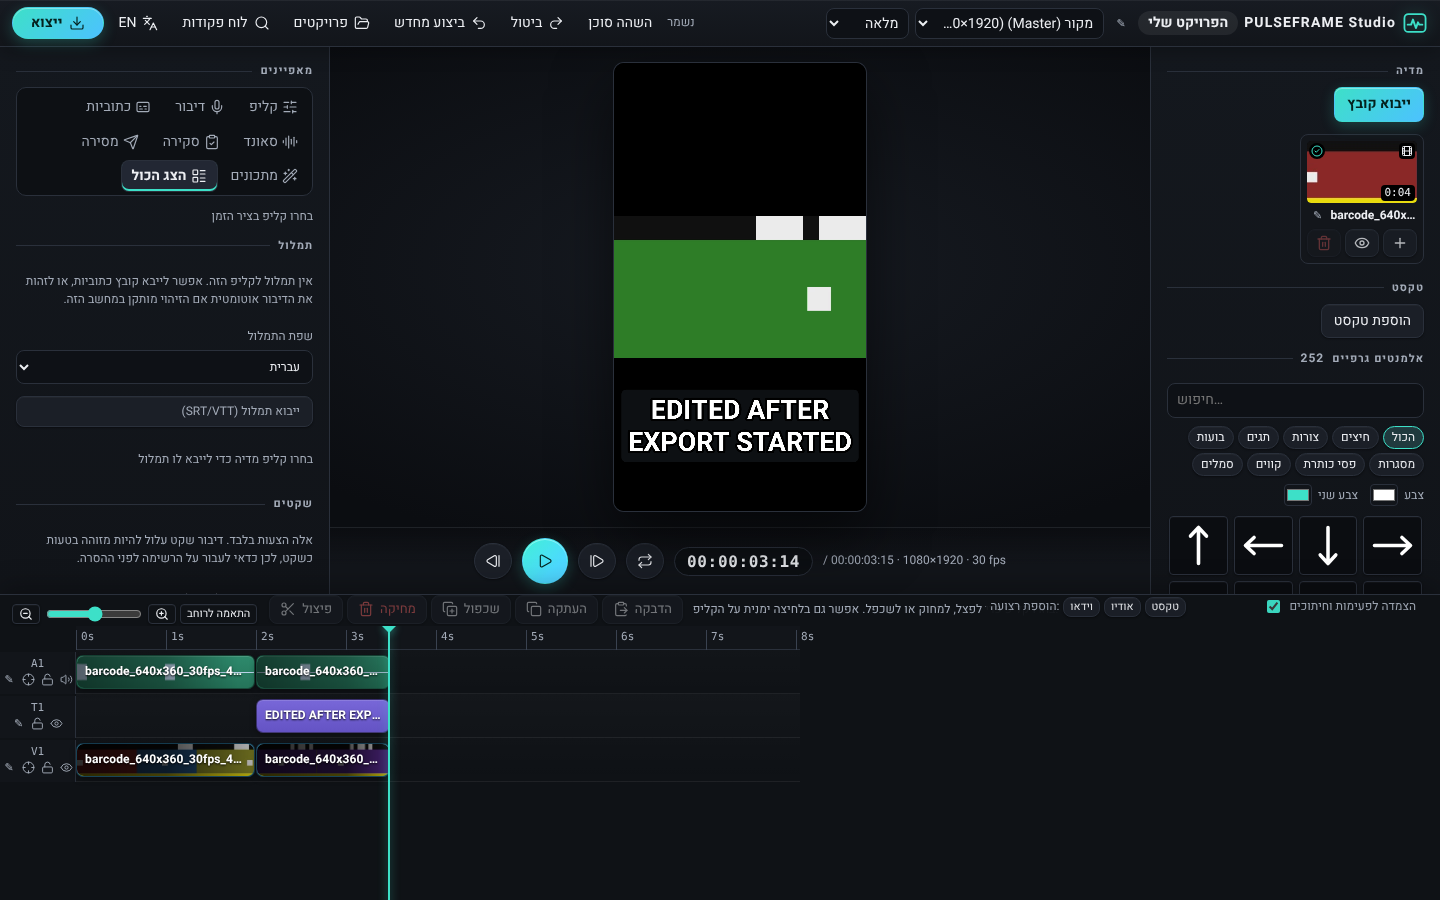
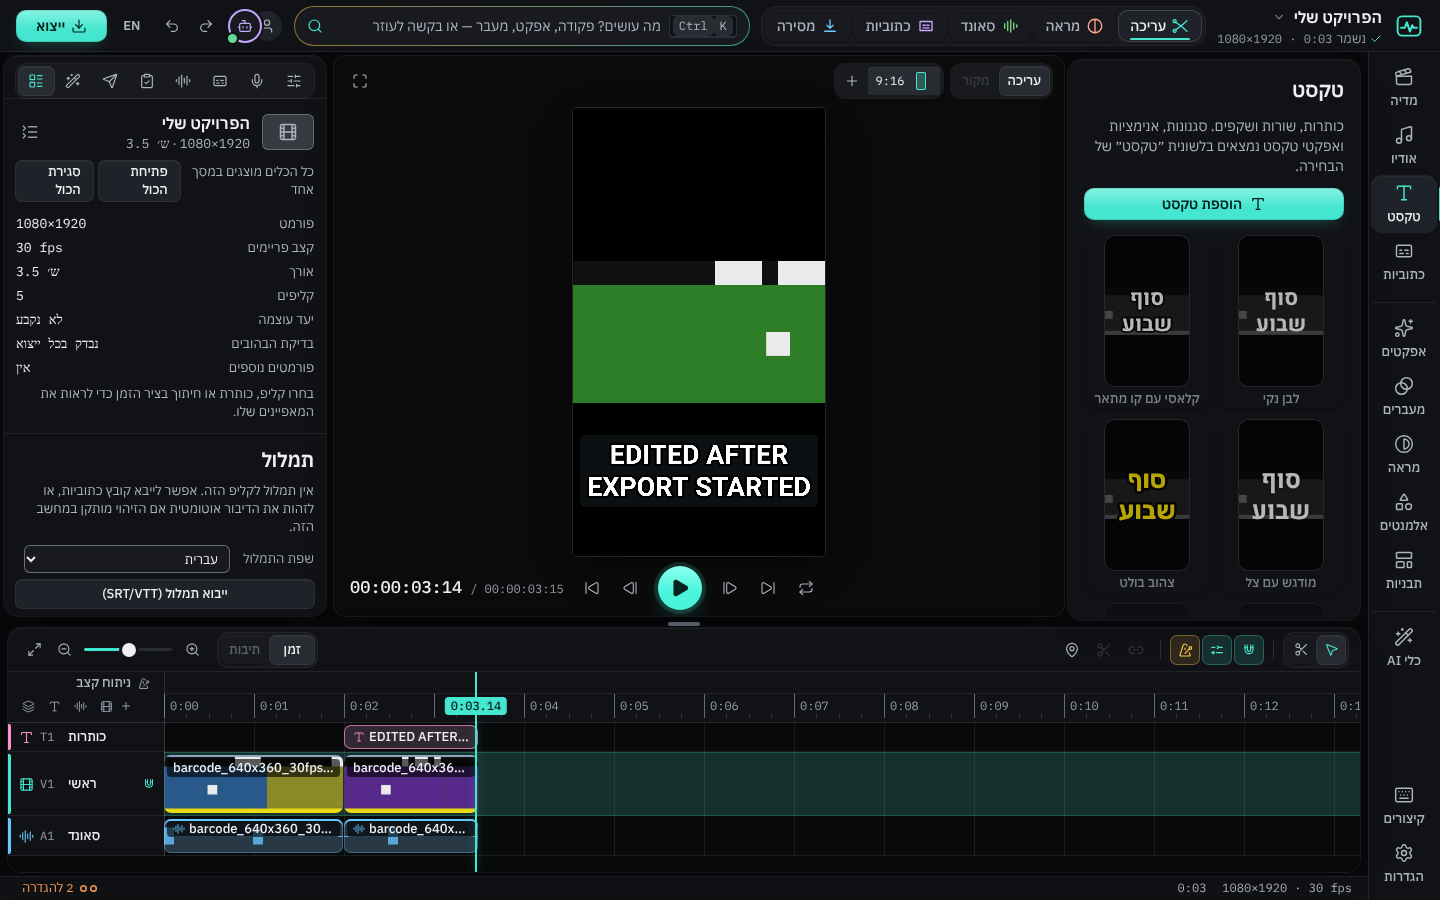
phase0-proof on the redesigned editor: 55/55
Add text through the rail's Text category; Export through the export sheet's start button (the
download link and the finished status are the sheet's done step), the sheet closed again before
the editor is used. Delete on the V1 clip now ripples (new project); the check counts clips and
undo, which restores exactly, and still holds.

Claude-Session: https://claude.ai/code/session_018qBbFdzdxfYPQek5Gtm2jB

diff --git a/packages/evals/src/phase0-proof.ts b/packages/evals/src/phase0-proof.ts
@@ -18,6 +18,7 @@ import type { ProjectDocument } from '@pulseframe/core';
 import { evaluate } from '@pulseframe/engine';
 import { generateBarcodeFixture, readBarcode } from '@pulseframe/fixtures';
 import { startServer } from '@pulseframe/server';
+import { startExport } from './editor-ui.ts';
 
 const root = path.resolve(import.meta.dirname, '../../..');
 const art = path.join(root, '.artifacts/proof');
@@ -112,6 +113,7 @@ async function main() {
 
   // --- Hebrew text
   rev = await uiRevision();
+  await page.getByTestId('rail-text').click(); // "add text" is the rail's Text category's button (UX_REDESIGN §4.3)
   await page.getByTestId('add-text').click();
   await waitRevision(rev + 1);
   const HEB = 'שָׁלוֹם עולם 2026 PULSEFRAME';
@@ -271,7 +273,7 @@ async function main() {
   console.log('\n# export (started from the UI button)');
   const tExport = Date.now();
   const saved = page.waitForEvent('download', { timeout: 300_000 }).then((d) => d.suggestedFilename(), () => null);
-  await page.getByTestId('export').click();
+  await startExport(page); // Export opens the export sheet; its start button starts the job (owner decision 2026-11-17)
   // Editing continues while the export runs: the job must keep its immutable snapshot.
   const snapshotRevision = rev;
   const late = await rest(`/projects/${projectId}/transactions`, { method: 'POST', body: JSON.stringify({ label: 'Edit during export', ops: [{ op: 'update_text', args: { clipId: textClip.id, text: 'EDITED AFTER EXPORT STARTED' } }] }) });
@@ -280,6 +282,8 @@ async function main() {
   const savedName = await saved;
   check('when the export finishes the editor says so and the file starts saving by itself; the link stays for another copy', (await page.getByTestId('export-finished').count()) === 1 && !!savedName && /\.mp4$/.test(savedName), { savedName });
   const href = await page.getByTestId('export-download').getAttribute('href');
+  await page.keyboard.press('Escape'); // the export sheet is modal: closed again before the editor is used
+  await page.getByTestId('export-sheet').waitFor({ state: 'detached', timeout: 10000 });
   const jobId = href!.split('/').at(-2)!;
   const job = await (await rest(`/jobs/${jobId}`)).json();
   const mp4 = path.join(art, 'phase0-export.mp4');
